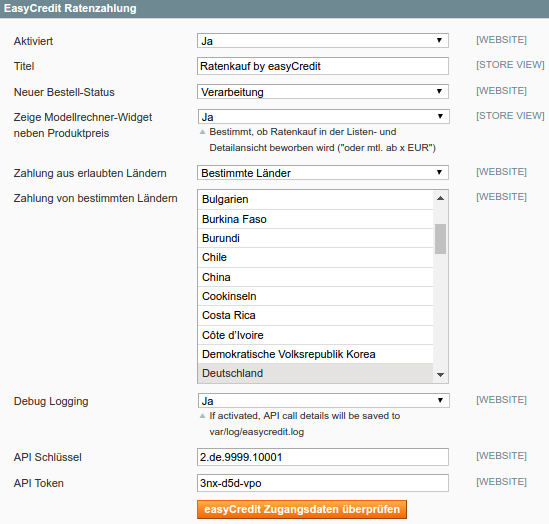
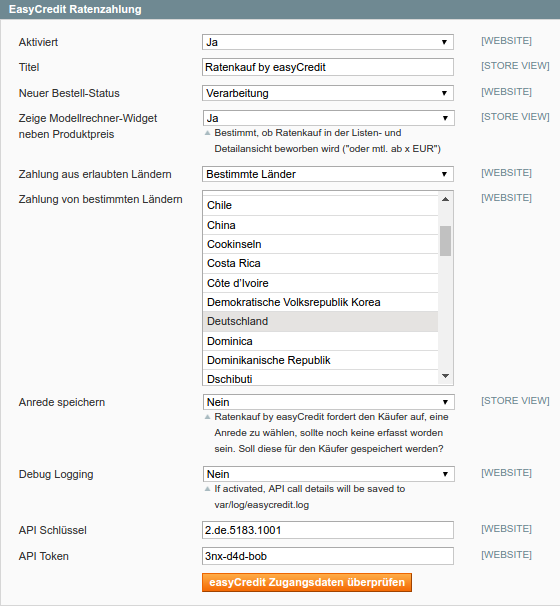
new config order & documentation

diff --git a/README.md b/README.md
@@ -11,7 +11,7 @@ Die Verzeichnisstruktur entspricht der Magento-Verzeichnisstruktur. Die Installa
 
 ### Zahlarten-Einstellung
 
-Die Zahlungsarten-Konfiguration befindet sich in unter *System -> Konfiguration -> Zahlungsarten -> easyCredit Ratenzahlung*
+Die Zahlungsarten-Konfiguration befindet sich in unter `System -> Konfiguration -> Zahlungsarten -> easyCredit Ratenzahlung`
 
 ![Zahlarten-Konfiguration](var/images/config.png "Zahlarten-Konfiguration")
 
@@ -19,13 +19,21 @@ Die Zahlungsarten-Konfiguration befindet sich in unter *System -> Konfiguration 
 |-----------------------------------------------|---------------------------------------------------------------------------------------------------------------------------------------------------------------------------------------------------------------------------------------------------------------------------------|
 | Title                                         | Unter dem Titel wird die Zahlungsmethode im Checkout angezeigt.                                                                                                                                                                                                                 |
 | Status neuer Bestellungen                     | Ermöglicht es Ihnen den Status festzulegen den Bestellungen die mit Ratenkauf by easyCredit bezahlt wurden, nach dem Eingang im System aufweisen.                                                                                                                               |
-| Zeige Modellrechner-Widget neben Produktpreis | Aktivieren Sie diese Option wenn Sie auf Produkt-Detail-Seiten ein monatliches Raten Angebot anzeigen möchten. Bitte beachten Sie das ein Ratenpreis nur angezeigt wird wenn der Preis sich in Ihrer festgelegten Preisspanne. |
-| Zahlung aus zutreffenden Ländern              | Stellen Sie diese Option bitte auf Bestimmte Länder (Specific Countries)                                                                                                                                                                                                       |
+| Zeige Modellrechner-Widget neben Produktpreis | Aktivieren Sie diese Option wenn Sie auf Produkt-Detail-Seiten ein monatliches Raten Angebot anzeigen möchten. Bitte beachten Sie das ein Ratenpreis nur angezeigt wird wenn der Preis sich in Ihrer festgelegten Preisspanne.                                                  |
+| Zahlung aus zutreffenden Ländern              | Stellen Sie diese Option bitte auf Bestimmte Länder (Specific Countries)                                                                                                                                                                                                        |
 | Zahlung aus bestimmmten Ländern               | Wählen Sie hier als einziges Land Deutschland aus.                                                                                                                                                                                                                              |
+| Anrede speichern                              | Ratenkauf by easyCredit fordert den Käufer auf, eine Anrede zu wählen, sollte noch keine erfasst worden sein. Soll diese für den Käufer gespeichert werden?                                                                                                                     |
 | Debug Logging                                 | Erlaubt Ihnen festzulegen ob der Inhalt aller easyCredit API-Zugriffe in var/log/debug.log gespeichert werden soll. Fehlermitteillungen werden immer gespeichert.                                                                                                               |
 | API Key                                       | Der API-Key wird Ihnen von der Teambank AG zur Verfügung gestellt.                                                                                                                                                                                                              |
 | API Token                                     | Der nicht öffentliche API Token wird Ihnen von der Teambank AG zur Verfügung gestellt und sollte nicht mit Dritten geteilt werden.                                                                                                                                              |
 | easyCredit Zugangsdaten überprüfen            | Ein Klick auf diesen Button überprüft die Kombination von API-Key und -Token auf Gültigkeit. Bitte vergessen Sie nicht nach einem erfolgreichen Test noch auf Speichern zu klicken.                                                                                             |
+
+### Kunden-Anrede konfigurieren
+Ratenkauf by easyCredit benötigt zwingend die zutreffende Anrede (Herr or Frau) für jeden Kunden der die Zahlungsart nutzen möchte.
+
+Sollte der Magento-Shop nicht zwingend Anreden bei der Adresseingabe fordern, wird der Käufer beim Zahlungsart wählen aufgefordert eine Anrede auszuwählen. Ob diese in der Kundendatenbank gespeichert wird kann in der *Zahlarten-Einstellung* unter **Anrede speichern** eingestellt werden.
+
+Das Anrede (Präfix) Verhalten kann im Backend unter `System -> Konfiguration -> Kundenkonfiguration -> Namens- und Adressoptionen -> Präfix abfragen` eingestellt werden. Für Ratenkauf by easyCredit empfiehlt sich zusätzlich noch `Präfix Auswahl Optionen` auf `Herr;Frau` zu begrenzen.
 
 ## Kompatibilität
 
